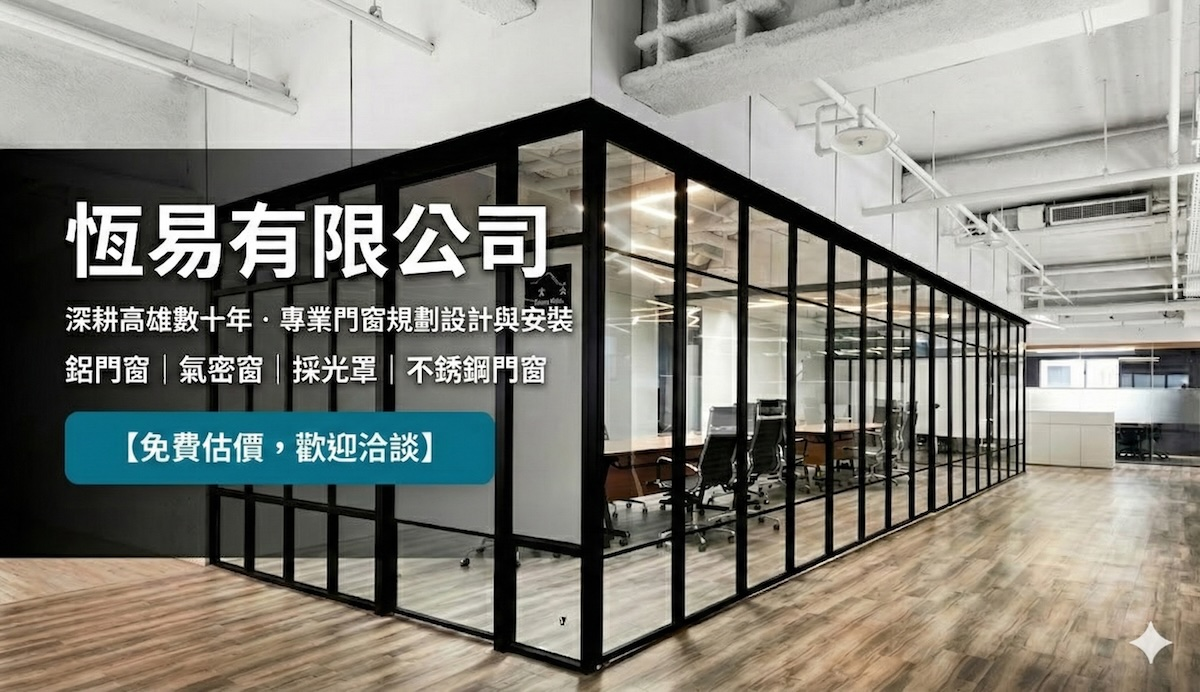
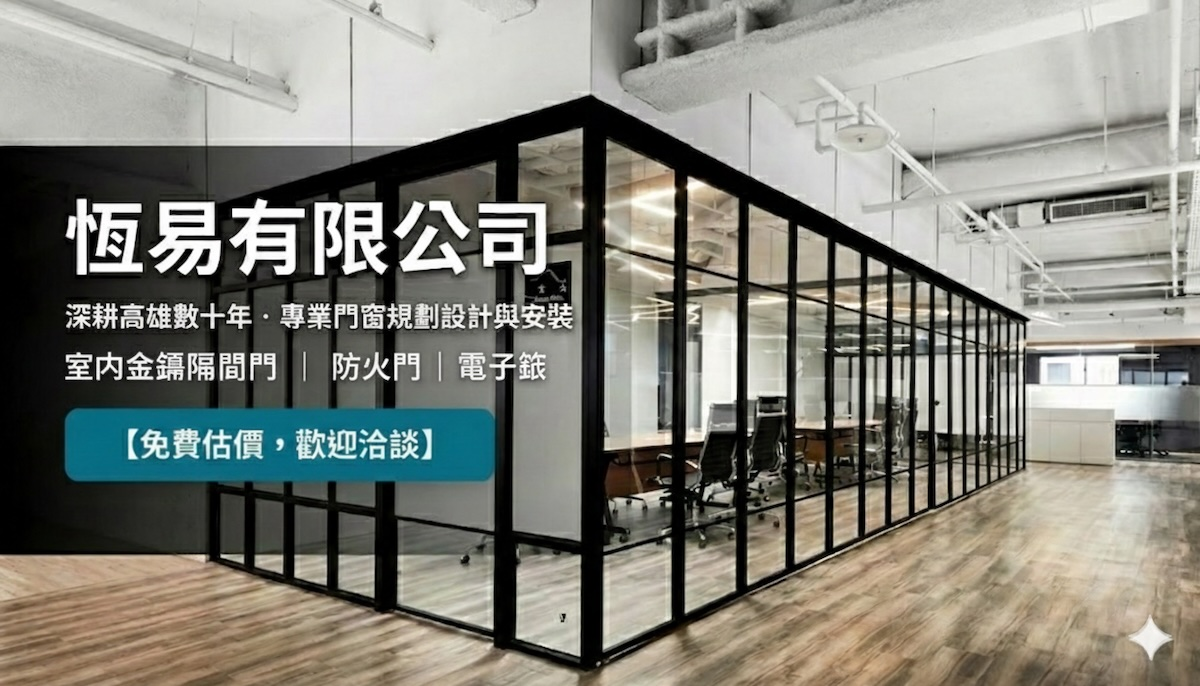
阿隆 pdate & SEO update

diff --git a/index.html b/index.html
@@ -3,6 +3,9 @@
     <head>
         <meta charset="UTF-8" />
         <meta name="viewport" content="width=device-width, initial-scale=1.0" />
+        <title>首頁|高雄氣密窗・鋁門窗推薦｜恆易30年工廠直營</title>
+        <meta name="description"
+            content="高雄氣密窗第一品牌，鳳山、三民、左營、楠梓30年老字號，免費到府丈量，最快7天完工，5年保固，立即線上諮詢！">
         <script
             src="https://cdn.jsdelivr.net/npm/alpinejs@3.x.x/dist/cdn.min.js"
             defer></script>
@@ -175,17 +178,11 @@
                                 關於恆易</h3>
                         </div>
                         <p class="mt-4 px-6">
-                            恆易有限公司深耕高雄數十年，專精各式鋁門窗、氣密窗、採光罩、不銹鋼門窗之規劃設計、專業製造、精準安裝與售後維修保養。服務範圍涵蓋高雄、屏東、台南全區，無論住家、社區大樓、店面、廠房、車庫，我們都是一通電話就能快速到場解決問題的首選團隊。<br /><br />
-
-                            從靜音氣密窗、防墜鋁窗、三合一通風門、隱藏式折紗窗、電動百葉窗、正新／國田／豐群系列氣密窗、丹頂鶴藝術玄關門、鋼製防火門、室內細框金屬門、電子鎖，到玻璃屋、採光罩、白鐵鍛造、淋浴拉門等各式特殊訂製需求，恆易都能以最專業的技術與最合理的價格，為您量身打造最完美的解決方案。
+                            恆易有限公司專精各式鋁門窗、氣密窗、採光罩、室內金屬隔間門.防火門之規劃設計、擁有多年建案與民宅新建.翻新之經驗.提供服務確保達到客戶要求、精準安裝與售後維修。服務範圍涵蓋高雄、屏東、台南全區，無論住家、社區大樓、店面、廠房、車庫，我們能快速到場提供所需服務。
 
                         </p>
                         <p class="mt-4 px-6">
-                            我們深知南部高溫多雨、颱風頻繁的氣候特性，因此每一扇門窗都堅持使用高規格斷熱鋁料、進口氣密條、德系五金，確保極佳的隔音、隔熱、防水、抗風壓效果，讓您一年四季都享有安靜、舒適、清涼的居家環境。<br /><br />
-
-                            恆易有限公司位於高雄，擁有數十位經驗豐富的設計師與施工師傅，無論新屋裝潢、老屋翻新、單一維修或社區統包工程，我們都以「同樣的價格，比別人更用心」的態度，提供最快速的報價、最精準的丈量、最乾淨的施工，以及最長的保固與最貼心的售後服務。
-
-                            在恆易，我們不只是做門窗，而是為您守護家的第一道防線。
+                            從靜音氣密窗、防墜鋁窗、三合一通風門、隱藏式折紗窗、電動百葉窗、正新／國田／豐群系列氣密窗、丹頂鶴藝術玄關門、鋼製防火門、室內細框金屬門、電子鎖，到玻璃屋、採光罩、淋浴拉門等各式特殊訂製需求，為您量身打造完美的解決方案。
                         </p>
                     </div>
                 </div>
@@ -360,11 +357,7 @@
                         <div
                             class="text-lg font-semibold text-gray-700">隔音窗</div>
                     </div>
-                    <div
-                        class="bg-white rounded-lg shadow hover:shadow-xl transition text-center py-6 px-4 border border-gray-100">
-                        <div
-                            class="text-lg font-semibold text-gray-700">折疊紗窗</div>
-                    </div>
+
                     <div
                         class="bg-white rounded-lg shadow hover:shadow-xl transition text-center py-6 px-4 border border-gray-100">
                         <div
@@ -383,22 +376,12 @@
                     <div
                         class="bg-white rounded-lg shadow hover:shadow-xl transition text-center py-6 px-4 border border-gray-100">
                         <div
-                            class="text-lg font-semibold text-gray-700">落地窗</div>
-                    </div>
-                    <div
-                        class="bg-white rounded-lg shadow hover:shadow-xl transition text-center py-6 px-4 border border-gray-100">
-                        <div
                             class="text-lg font-semibold text-gray-700">陽台窗</div>
                     </div>
                     <div
                         class="bg-white rounded-lg shadow hover:shadow-xl transition text-center py-6 px-4 border border-gray-100">
                         <div
                             class="text-lg font-semibold text-gray-700">防盜窗</div>
-                    </div>
-                    <div
-                        class="bg-white rounded-lg shadow hover:shadow-xl transition text-center py-6 px-4 border border-gray-100">
-                        <div
-                            class="text-lg font-semibold text-gray-700">安全窗</div>
                     </div>
                     <div
                         class="bg-white rounded-lg shadow hover:shadow-xl transition text-center py-6 px-4 border border-gray-100">
@@ -415,31 +398,7 @@
                         <div
                             class="text-lg font-semibold text-gray-700">鋁門窗</div>
                     </div>
-                    <div
-                        class="bg-white rounded-lg shadow hover:shadow-xl transition text-center py-6 px-4 border border-gray-100">
-                        <div
-                            class="text-lg font-semibold text-gray-700">鋁門</div>
-                    </div>
-                    <div
-                        class="bg-white rounded-lg shadow hover:shadow-xl transition text-center py-6 px-4 border border-gray-100">
-                        <div
-                            class="text-lg font-semibold text-gray-700">紗門</div>
-                    </div>
-                    <div
-                        class="bg-white rounded-lg shadow hover:shadow-xl transition text-center py-6 px-4 border border-gray-100">
-                        <div
-                            class="text-lg font-semibold text-gray-700">防盜紗門</div>
-                    </div>
-                    <div
-                        class="bg-white rounded-lg shadow hover:shadow-xl transition text-center py-6 px-4 border border-gray-100">
-                        <div
-                            class="text-lg font-semibold text-gray-700">玻璃門</div>
-                    </div>
-                    <div
-                        class="bg-white rounded-lg shadow hover:shadow-xl transition text-center py-6 px-4 border border-gray-100">
-                        <div
-                            class="text-lg font-semibold text-gray-700">鋁木門</div>
-                    </div>
+
                     <div
                         class="bg-white rounded-lg shadow hover:shadow-xl transition text-center py-6 px-4 border border-gray-100">
                         <div
@@ -448,32 +407,7 @@
                     <div
                         class="bg-white rounded-lg shadow hover:shadow-xl transition text-center py-6 px-4 border border-gray-100">
                         <div
-                            class="text-lg font-semibold text-gray-700">自動門</div>
-                    </div>
-                    <div
-                        class="bg-white rounded-lg shadow hover:shadow-xl transition text-center py-6 px-4 border border-gray-100">
-                        <div
                             class="text-lg font-semibold text-gray-700">採光罩</div>
-                    </div>
-                    <div
-                        class="bg-white rounded-lg shadow hover:shadow-xl transition text-center py-6 px-4 border border-gray-100">
-                        <div
-                            class="text-lg font-semibold text-gray-700">PC板更換</div>
-                    </div>
-                    <div
-                        class="bg-white rounded-lg shadow hover:shadow-xl transition text-center py-6 px-4 border border-gray-100">
-                        <div
-                            class="text-lg font-semibold text-gray-700">鋁格柵</div>
-                    </div>
-                    <div
-                        class="bg-white rounded-lg shadow hover:shadow-xl transition text-center py-6 px-4 border border-gray-100">
-                        <div
-                            class="text-lg font-semibold text-gray-700">鋁隔屏</div>
-                    </div>
-                    <div
-                        class="bg-white rounded-lg shadow hover:shadow-xl transition text-center py-6 px-4 border border-gray-100">
-                        <div
-                            class="text-lg font-semibold text-gray-700">鋁鐵窗</div>
                     </div>
                     <div
                         class="bg-white rounded-lg shadow hover:shadow-xl transition text-center py-6 px-4 border border-gray-100">
@@ -489,6 +423,16 @@
                         class="bg-white rounded-lg shadow hover:shadow-xl transition text-center py-6 px-4 border border-gray-100">
                         <div
                             class="text-lg font-semibold text-gray-700">室內細框門</div>
+                    </div>
+                    <div
+                        class="bg-white rounded-lg shadow hover:shadow-xl transition text-center py-6 px-4 border border-gray-100">
+                        <div
+                            class="text-lg font-semibold text-gray-700">寵物門</div>
+                    </div>
+                    <div
+                        class="bg-white rounded-lg shadow hover:shadow-xl transition text-center py-6 px-4 border border-gray-100">
+                        <div
+                            class="text-lg font-semibold text-gray-700">隔熱防曬膜</div>
                     </div>
                 </div>
 

diff --git a/product-8-electric-window.html b/product-8-electric-window.html
@@ -5,7 +5,9 @@
         <meta charset="UTF-8" />
         <meta name="viewport" content="width=device-width, initial-scale=1.0" />
         <meta http-equiv="X-UA-Compatible" content="ie=edge" />
-        <title>Document</title>
+        <title>高雄電動百葉窗推薦｜遙控百葉・智慧電動百葉｜恆易鋁門窗</title>
+        <meta name="description"
+            content="高雄電動百葉窗30年專業推薦，支援手機App、遙控器、定時自動升降，鋁合金百葉／實木百葉任選，隔熱節能又靜音，鳳山、三民、左營最快3天安裝，免費到府丈量報價！">
         <link
             href="https://fonts.googleapis.com/css?family=Noto+Sans+TC:100,300,400,500&display=swap"
             rel="stylesheet" />

diff --git a/product-2-main-door.html b/product-2-main-door.html
@@ -5,7 +5,9 @@
         <meta charset="UTF-8" />
         <meta name="viewport" content="width=device-width, initial-scale=1.0" />
         <meta http-equiv="X-UA-Compatible" content="ie=edge" />
-        <title>Document</title>
+        <title>高雄丹頂鶴玄關門｜藝術鋼木玄關門第一品牌｜恆易鋁門窗</title>
+        <meta name="description"
+            content="高雄丹頂鶴玄關門工廠直營，藝術鋼木玄關門第一品牌，免費到府丈量，最快7天完工，5年保固，立即線上諮詢！">
         <link
             href="https://fonts.googleapis.com/css?family=Noto+Sans+TC:100,300,400,500&display=swap"
             rel="stylesheet" />

diff --git a/product-1-3-1door.html b/product-1-3-1door.html
@@ -5,7 +5,9 @@
         <meta charset="UTF-8" />
         <meta name="viewport" content="width=device-width, initial-scale=1.0" />
         <meta http-equiv="X-UA-Compatible" content="ie=edge" />
-        <title>Document</title>
+        <title>高雄三合一通風門推薦｜陽台廚房最佳選擇｜恆易鋁門窗</title>
+        <meta name="description"
+            content="高雄三合一通風門工廠直營，單扇取代紗門+玻璃門+防盜格柵，節省空間、防蚊防盜又氣密，鳳山最快24小時丈量！">
         <link
             href="https://fonts.googleapis.com/css?family=Noto+Sans+TC:100,300,400,500&display=swap"
             rel="stylesheet" />

diff --git a/高雄鳳山區氣密窗.html b/高雄鳳山區氣密窗.html
@@ -5,7 +5,9 @@
         <meta charset="UTF-8" />
         <meta name="viewport" content="width=device-width, initial-scale=1.0" />
         <meta http-equiv="X-UA-Compatible" content="ie=edge" />
-        <title>Document</title>
+        <title>首頁|高雄氣密窗・鋁門窗推薦｜恆易30年工廠直營</title>
+        <meta name="description"
+            content="高雄氣密窗第一品牌，鳳山、三民、左營、楠梓30年老字號，免費到府丈量，最快7天完工，5年保固，立即線上諮詢！">
         <link
             href="https://fonts.googleapis.com/css?family=Noto+Sans+TC:100,300,400,500&display=swap"
             rel="stylesheet" />

diff --git a/product-3-window.html b/product-3-window.html
@@ -5,7 +5,9 @@
         <meta charset="UTF-8" />
         <meta name="viewport" content="width=device-width, initial-scale=1.0" />
         <meta http-equiv="X-UA-Compatible" content="ie=edge" />
-        <title>Document</title>
+        <title>高雄氣密窗|防颱隔音窗專家｜隔音防水防颱首選｜恆易鋁門窗</title>
+        <meta name="description"
+            content="正新氣密窗高雄總代理，35dB隔音、50kgf水密、抗風壓360kgf/m²，鳳山、三民最快7天完工，5年保固！">
         <link
             href="https://fonts.googleapis.com/css?family=Noto+Sans+TC:100,300,400,500&display=swap"
             rel="stylesheet" />

diff --git a/product-4-fire-door.html b/product-4-fire-door.html
@@ -5,7 +5,9 @@
         <meta charset="UTF-8" />
         <meta name="viewport" content="width=device-width, initial-scale=1.0" />
         <meta http-equiv="X-UA-Compatible" content="ie=edge" />
-        <title>Document</title>
+        <title>高雄防火門｜鋼製木質防火門乙級甲級｜恆易鋁門窗</title>
+        <meta name="description"
+            content="高雄防火門工廠直營，乙級1小時、甲級3小時耐火，社區大樓專案實績最多，免費到府丈量報價！">
         <link
             href="https://fonts.googleapis.com/css?family=Noto+Sans+TC:100,300,400,500&display=swap"
             rel="stylesheet" />

diff --git a/product-6-door-lock.html b/product-6-door-lock.html
@@ -5,7 +5,9 @@
         <meta charset="UTF-8" />
         <meta name="viewport" content="width=device-width, initial-scale=1.0" />
         <meta http-equiv="X-UA-Compatible" content="ie=edge" />
-        <title>Document</title>
+        <title>高雄電子鎖推薦｜指紋密碼門鎖｜飛利浦/耶魯/三星｜恆易鋁門窗</title>
+        <meta name="description"
+            content="高雄電子鎖專業安裝，指紋+密碼+卡片+App，舊門直接改裝，鳳山24小時內到府服務！">
         <link
             href="https://fonts.googleapis.com/css?family=Noto+Sans+TC:100,300,400,500&display=swap"
             rel="stylesheet" />

diff --git a/product-5-room-door.html b/product-5-room-door.html
@@ -5,7 +5,9 @@
         <meta charset="UTF-8" />
         <meta name="viewport" content="width=device-width, initial-scale=1.0" />
         <meta http-equiv="X-UA-Compatible" content="ie=edge" />
-        <title>Document</title>
+        <title>高雄室內細框門｜浴室臥室極簡門推薦｜恆易鋁門窗</title>
+        <meta name="description"
+            content="高雄細框金屬門2-3cm窄邊框，防潮不變形，木紋/純色百搭，鳳山、三民最快3天安裝！">
         <link
             href="https://fonts.googleapis.com/css?family=Noto+Sans+TC:100,300,400,500&display=swap"
             rel="stylesheet" />

diff --git a/product-7-screen.html b/product-7-screen.html
@@ -5,7 +5,9 @@
         <meta charset="UTF-8" />
         <meta name="viewport" content="width=device-width, initial-scale=1.0" />
         <meta http-equiv="X-UA-Compatible" content="ie=edge" />
-        <title>Document</title>
+        <title>高雄隱藏式折紗門窗｜無障礙摺疊紗窗｜恆易鋁門窗</title>
+        <meta name="description"
+            content="高雄隱藏式摺疊紗窗，開啟無軌道、無門檻，防蚊又美觀，鳳山最快3天安裝完成！">
         <link
             href="https://fonts.googleapis.com/css?family=Noto+Sans+TC:100,300,400,500&display=swap"
             rel="stylesheet" />
